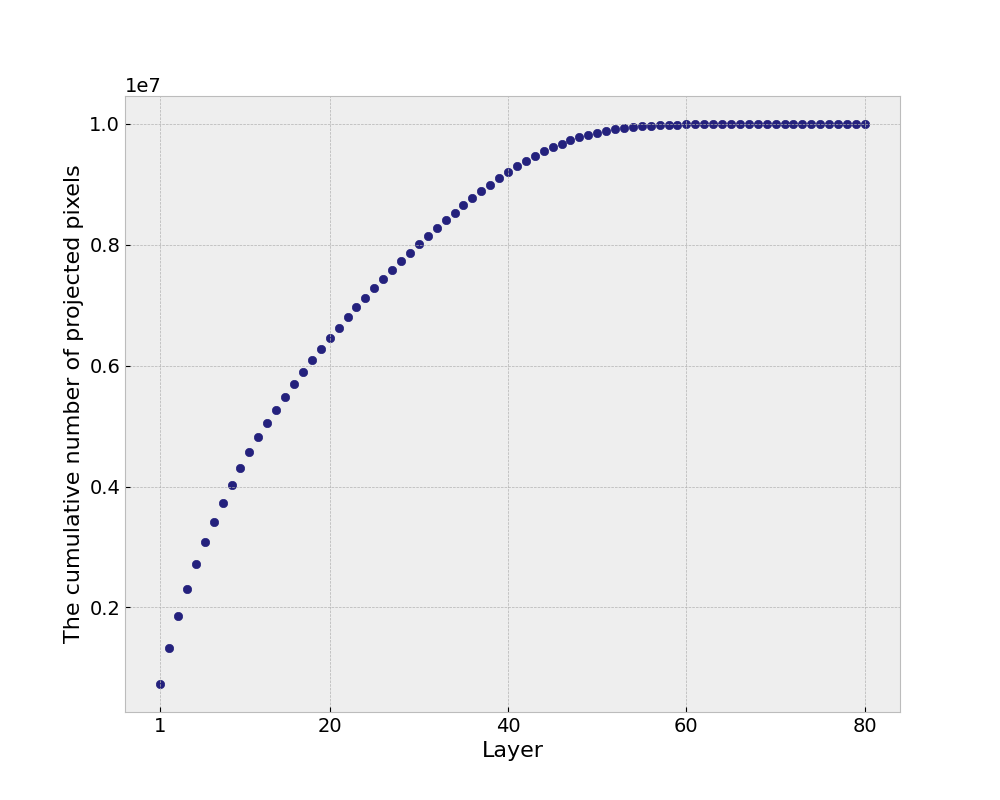
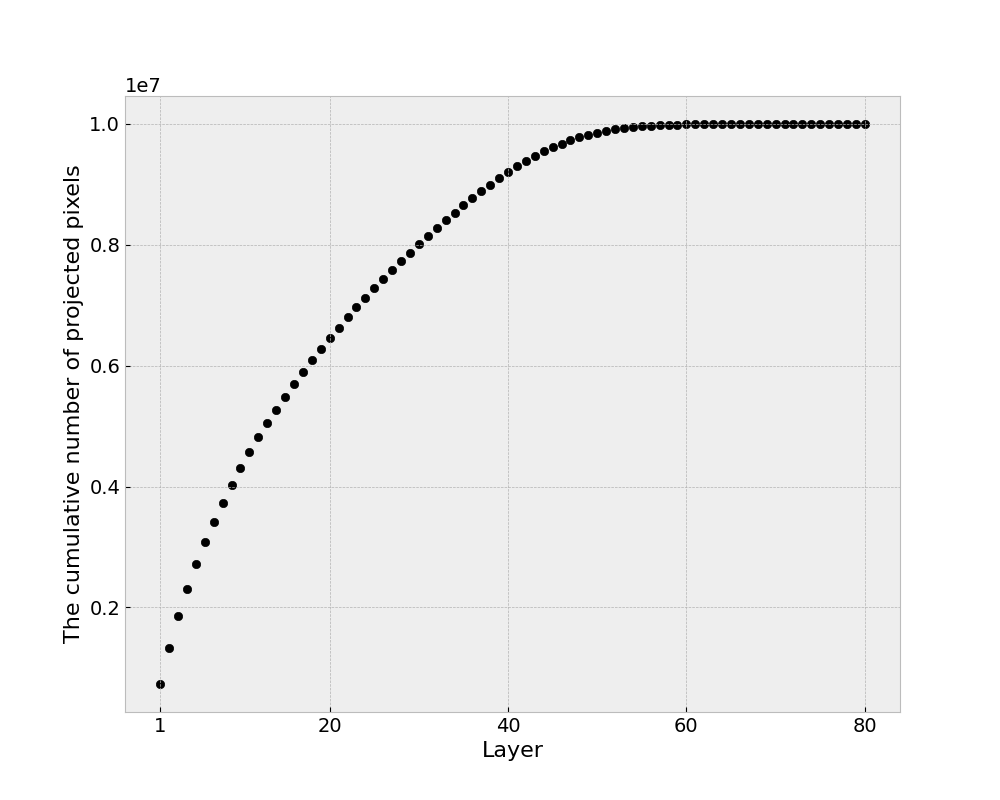
Update

diff --git a/src/py/projected_pixels/create_figure.py b/src/py/projected_pixels/create_figure.py
@@ -38,11 +38,11 @@ print( "The sum of projected pixels: {} (pixels)".format( nPixels_sum ) )
 
 
 # Creat figure
-plt.scatter( Layer, nPixels, color='#24217D', marker="o" )
-plt.ylabel( 'The number of projected pixels [pixels]', fontsize=16 )
+plt.scatter( Layer, nPixels, color='black', marker="o" )
+plt.ylabel( 'The number of projected pixels', fontsize=16 )
 
-# plt.scatter( Layer, nPixels_cum, color='#24217D', marker="o" )
-# plt.ylabel( 'The cumulative number of projected pixels [pixels]', fontsize=16 )
+# plt.scatter( Layer, nPixels_cum, color='black', marker="o" )
+# plt.ylabel( 'The cumulative number of projected pixels', fontsize=16 )
 
 plt.xlabel( 'Layer', fontsize=16 )
 plt.xticks( [1, 20, 40, 60, 80], fontsize=14 )
